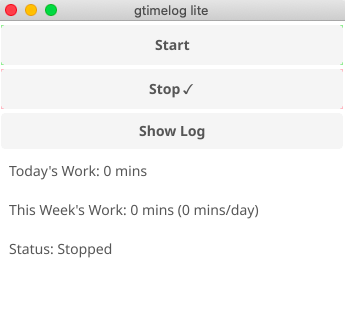
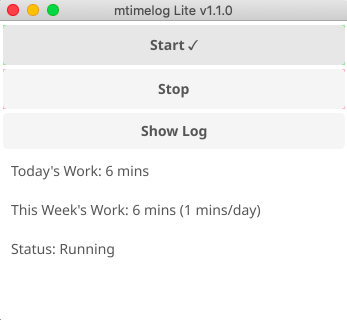
v1.1.0 (#4)

diff --git a/main.go b/main.go
@@ -6,6 +6,7 @@ import (
 	"os"
 	"os/exec"
 	"runtime"
+	"strconv"
 	"strings"
 	"time"
 
@@ -16,14 +17,28 @@ import (
 	"fyne.io/fyne/v2/widget"
 )
 
-const logFile = "work_log.txt"
+// === Configurable Constants ===
+const (
+	logFile          = "work_log.txt"
+	startAction      = 1
+	stopAction       = 0
+	logMinuteDivisor = 60
+	uiTickInterval   = 1 * time.Second
+	defaultWidth     = 350
+	defaultHeight    = 300
+	logDateFormat    = "20060102T150405"
+
+	appVersion      = "v1.1.0"
+	appName         = "mtimelog Lite"
+	workdaysPerWeek = 5 // <-- You can change this to 6 or 7 as needed
+)
 
 var isRunning bool
 var currentSessionStart time.Time
 
 func main() {
 	myApp := app.New()
-	myWindow := myApp.NewWindow("gtimelog lite")
+	myWindow := myApp.NewWindow(fmt.Sprintf("%s %s", appName, appVersion))
 
 	summaryLabel := widget.NewLabel("")
 	weeklySummaryLabel := widget.NewLabel("")
@@ -33,13 +48,13 @@ func main() {
 	var stopBtn *widget.Button
 
 	startBtn = widget.NewButton("Start", func() {
-		logTime("START")
+		logTime(startAction)
 		isRunning = true
 		currentSessionStart = time.Now()
 		updateUI(summaryLabel, weeklySummaryLabel, stateLabel, startBtn, stopBtn)
 	})
 	stopBtn = widget.NewButton("Stop", func() {
-		logTime("STOP")
+		logTime(stopAction)
 		isRunning = false
 		currentSessionStart = time.Time{}
 		updateUI(summaryLabel, weeklySummaryLabel, stateLabel, startBtn, stopBtn)
@@ -49,8 +64,7 @@ func main() {
 	stopBtnContainer := styledButtonContainer(stopBtn, color.RGBA{R: 255, G: 182, B: 193, A: 255})
 
 	showLogBtn := widget.NewButton("Show Log", func() {
-		err := openLogFile(logFile)
-		if err != nil {
+		if err := openLogFile(logFile); err != nil {
 			fmt.Println("Failed to open log file:", err)
 		}
 	})
@@ -67,13 +81,13 @@ func main() {
 	myWindow.SetContent(buttonContainer)
 
 	go func() {
-		for range time.Tick(time.Second) {
+		for range time.Tick(uiTickInterval) {
 			updateUI(summaryLabel, weeklySummaryLabel, stateLabel, startBtn, stopBtn)
 		}
 	}()
 
 	updateUI(summaryLabel, weeklySummaryLabel, stateLabel, startBtn, stopBtn)
-	myWindow.Resize(fyne.NewSize(350, 300))
+	myWindow.Resize(fyne.NewSize(defaultWidth, defaultHeight))
 	myWindow.ShowAndRun()
 }
 
@@ -83,7 +97,7 @@ func styledButtonContainer(btn *widget.Button, bgColor color.Color) *fyne.Contai
 	return container.NewMax(bg, btn)
 }
 
-func logTime(action string) {
+func logTime(action int) {
 	f, err := os.OpenFile(logFile, os.O_APPEND|os.O_CREATE|os.O_WRONLY, 0644)
 	if err != nil {
 		fmt.Println("Error opening file:", err)
@@ -91,8 +105,8 @@ func logTime(action string) {
 	}
 	defer f.Close()
 
-	timestamp := time.Now().Format("2006-01-02 15:04:05")
-	entry := fmt.Sprintf("%s %s\n", timestamp, action)
+	timestamp := time.Now().Format(logDateFormat)
+	entry := fmt.Sprintf("%s,%d\n", timestamp, action)
 	_, _ = f.WriteString(entry)
 }
 
@@ -102,7 +116,8 @@ func getWeeklySummary() string {
 	if offset == 0 {
 		offset = 7
 	}
-	weekStart := now.AddDate(0, 0, -offset+1).Truncate(24 * time.Hour)
+	weekStart := time.Date(now.Year(), now.Month(), now.Day()-offset+1, 0, 0, 0, 0, now.Location())
+
 	mins := calculateWorkTime(func(t time.Time) bool {
 		return t.After(weekStart)
 	})
@@ -111,7 +126,7 @@ func getWeeklySummary() string {
 		mins += int(time.Since(currentSessionStart).Minutes())
 	}
 
-	perDay := mins / 5
+	perDay := mins / workdaysPerWeek
 	return fmt.Sprintf("This Week's Work: %s (%s/day)", formatDuration(mins), formatDuration(perDay))
 }
 
@@ -123,8 +138,11 @@ func getState() string {
 }
 
 func updateUI(summaryLabel, weeklySummaryLabel, stateLabel *widget.Label, startBtn, stopBtn *widget.Button) {
+	now := time.Now()
+	todayStart := time.Date(now.Year(), now.Month(), now.Day(), 0, 0, 0, 0, now.Location())
+
 	mins := calculateWorkTime(func(t time.Time) bool {
-		return t.After(time.Now().Truncate(24 * time.Hour))
+		return t.After(todayStart)
 	})
 
 	if isRunning && !currentSessionStart.IsZero() {
@@ -155,28 +173,35 @@ func calculateWorkTime(filterFunc func(time.Time) bool) int {
 	var startTime time.Time
 
 	for _, line := range lines {
-		if len(line) < 19 {
+		if len(line) < 15 {
 			continue
 		}
-		parts := strings.SplitN(line, " ", 3)
-		if len(parts) < 3 {
+		parts := strings.SplitN(line, ",", 2)
+		if len(parts) < 2 {
 			continue
 		}
 
-		timeStr, action := parts[0]+" "+parts[1], parts[2]
-		logTime, err := time.Parse("2006-01-02 15:04:05", timeStr)
+		logTime, err := time.Parse(logDateFormat, parts[0])
 		if err != nil || !filterFunc(logTime) {
 			continue
 		}
 
-		if action == "START" {
+		actionCode, err := strconv.Atoi(strings.TrimSpace(parts[1]))
+		if err != nil {
+			continue
+		}
+
+		switch actionCode {
+		case startAction:
 			startTime = logTime
-		} else if action == "STOP" && !startTime.IsZero() {
-			totalTime += int(logTime.Sub(startTime).Seconds())
-			startTime = time.Time{}
+		case stopAction:
+			if !startTime.IsZero() {
+				totalTime += int(logTime.Sub(startTime).Seconds())
+				startTime = time.Time{}
+			}
 		}
 	}
-	return totalTime / 60
+	return totalTime / logMinuteDivisor
 }
 
 func formatDuration(minutes int) string {

diff --git a/README.md b/README.md
@@ -64,7 +64,7 @@ sudo apt-get install libxcursor-dev libxrandr-dev libxinerama-dev libxi-dev libg
 Then download and install the binary:
 
 ```bash
-curl -Lo mtimelog https://github.com/mrauer/mtimelog/releases/download/v0.1.0/mtimelog_linux_amd64 \
+curl -Lo mtimelog https://github.com/mrauer/mtimelog/releases/download/v1.1.0/mtimelog_linux_amd64 \
 && chmod +x mtimelog \
 && sudo mv mtimelog /usr/local/bin
 ```
@@ -72,7 +72,7 @@ curl -Lo mtimelog https://github.com/mrauer/mtimelog/releases/download/v0.1.0/mt
 ### Mac
 
 ```bash
-curl -Lo mtimelog https://github.com/mrauer/mtimelog/releases/download/v0.1.0/mtimelog_darwin_amd64 \
+curl -Lo mtimelog https://github.com/mrauer/mtimelog/releases/download/v1.1.0/mtimelog_darwin_amd64 \
 && chmod +x mtimelog \
 && sudo mv mtimelog /usr/local/bin
 ```
@@ -100,8 +100,8 @@ All entries are saved in a simple text file named `work_log.txt` in the same dir
 Example log entry:
 
 ```
-2025-04-20 09:12:01 START  
-2025-04-20 12:34:10 STOP
+20250614T114517,1
+20250614T115554,0
 ```
 
 ## Contribute
